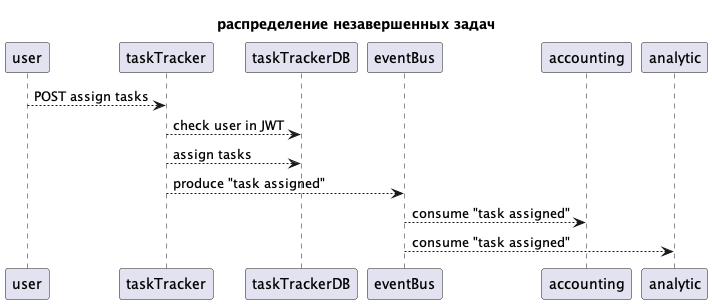
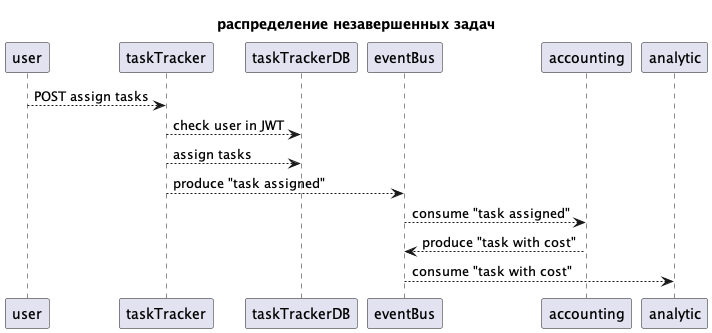
добавлены диаграммы и события

diff --git a/README.md b/README.md
@@ -26,6 +26,12 @@ https://lms.tough-dev.school/materials/1cf623e0c65f4123bf6a809b4cd89e12/
 
 ![](./docs/render/complete_task_flow.png "работа с задачей")
 
+## Работа заработанного
+
+![](./docs/render/user_accouting_flow.png "расчет заработка")
+
+![](./docs/render/manager_report_flow.png "расчет заработка менеджера")
+
 ## Отправка писем
 
 ![](./docs/render/mail_flow.png "отправка писем")
@@ -37,6 +43,10 @@ https://lms.tough-dev.school/materials/1cf623e0c65f4123bf6a809b4cd89e12/
 ![](./docs/render/task_assigned.png "")
 
 ![](./docs/render/task_completed.png "")
+
+![](./docs/render/task_with_cost.png "")
+
+![](./docs/render/manager_report.png "")
 
 ![](./docs/render/mail.png "")
 
